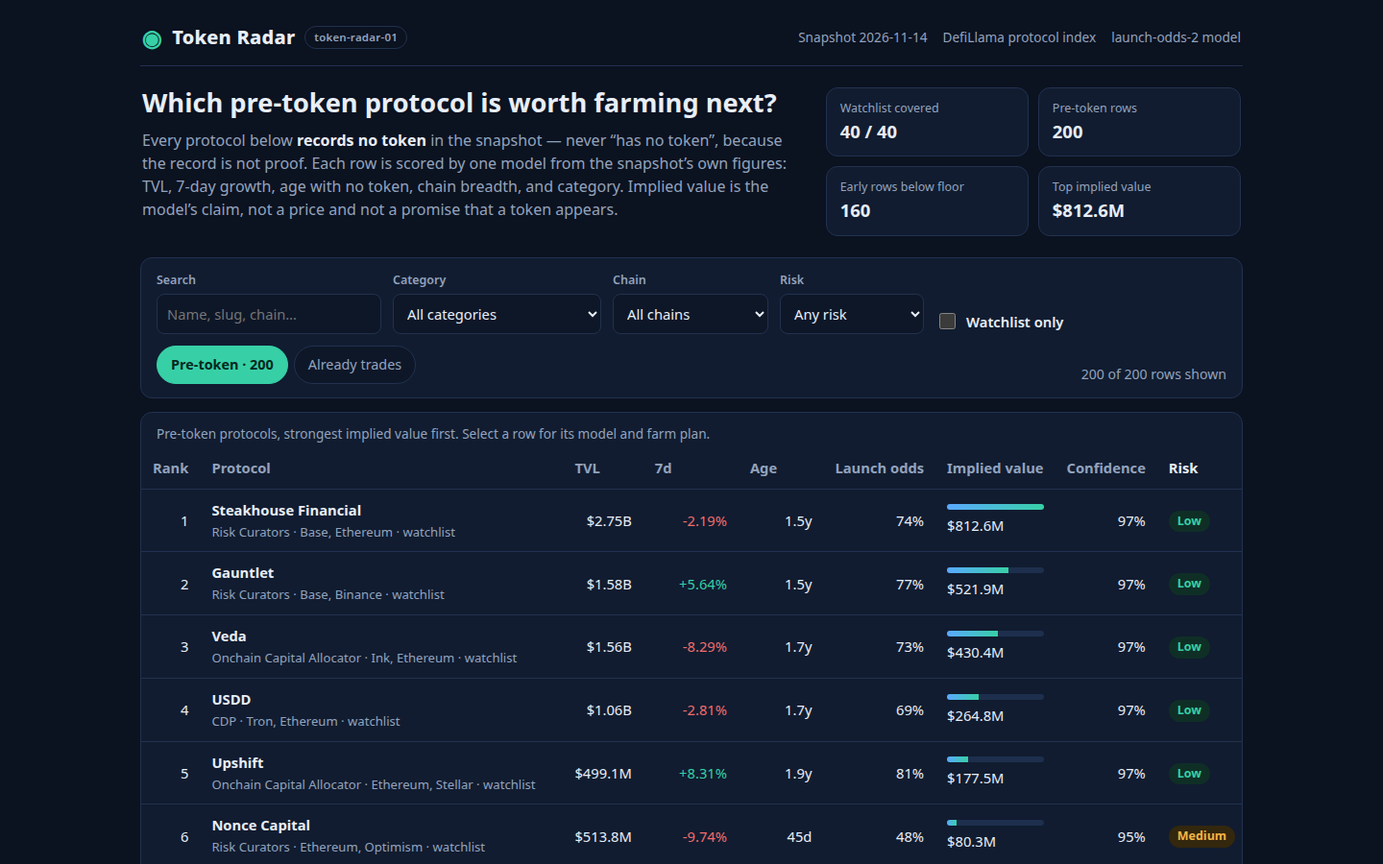
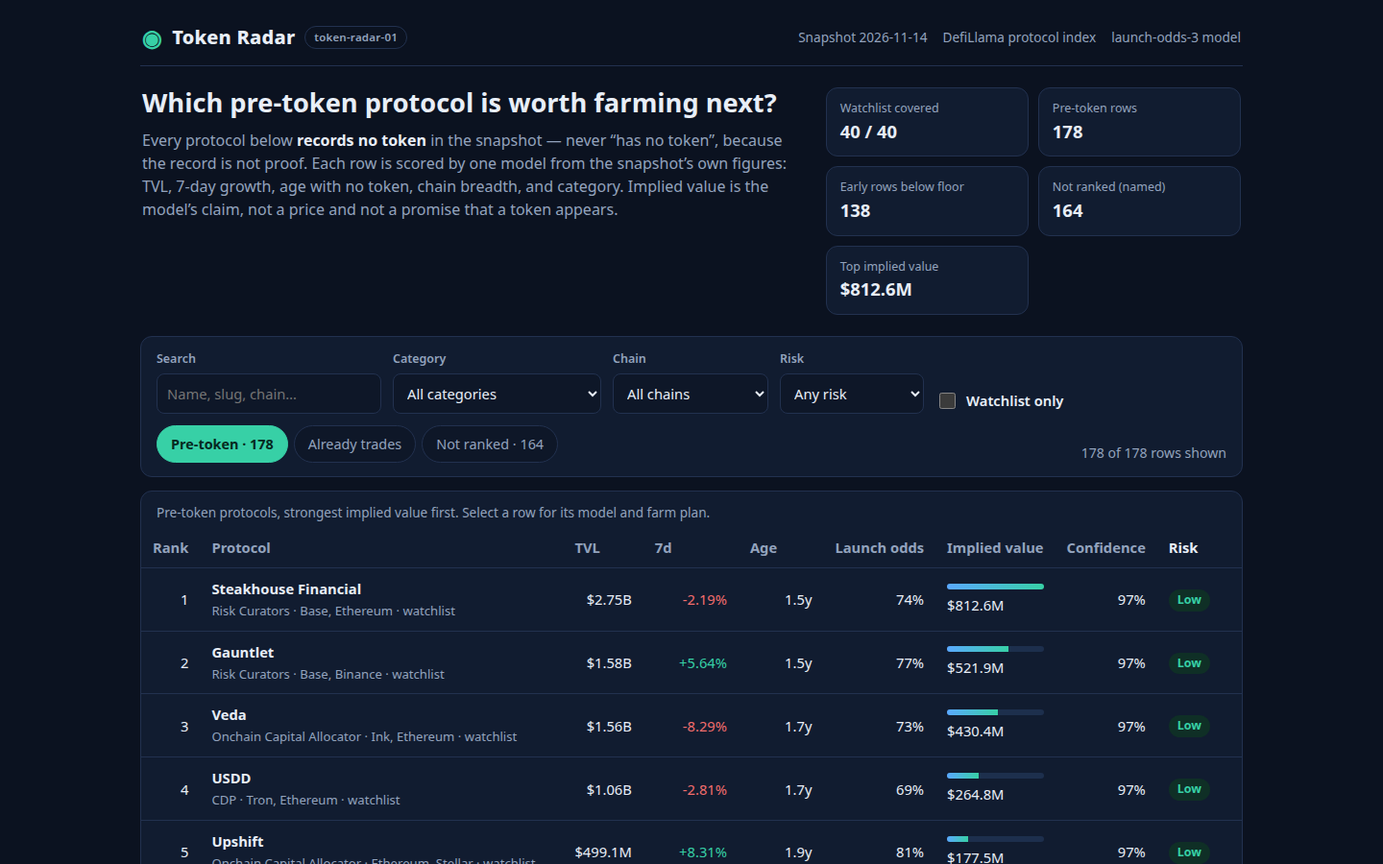
launch-odds-3: rank every eligible pre-token protocol, name the rest
- Board 200 -> 178 rows: v2 ranked 48 wrapped/staked/bridged products
  (liquid-staking receipts, bridges, exchange staked SOL) that the brief
  says are not launches; v3 applies the house watchlist rule to every
  protocol, not just the watchlist.
- Full verified coverage: all 40 watchlist + all 138 other eligible
  pre-token protocols in the snapshot; no top-N cut anymore.
- Not ranked tab: the 164 pre-token protocols left out, each with its
  reason (91 wrapped/staked/bridged, 42 exchanges, 11 versioned pools,
  20 left out by the house watchlist rule). The snapshot carries no
  parentProtocol field, so the entry follows the house list's verdict
  for that last group instead of re-admitting a parent's product.
- Farm plans: category branches for basis trading, chains, CeDeFi,
  BTC-pegged assets, payments, governance incentives, card issuers and
  farms; generic fallback step now 0 rows (was 23).
- Dashboard: third tab for Not ranked (compact columns), new fact card,
  model version shown from data; fourth screenshot of the Not ranked tab.
- Formula unchanged: top 5 implied values identical to v2.

diff --git a/lib/model.ts b/lib/model.ts
@@ -1,4 +1,4 @@
-// Token Radar model v2 ("launch-odds"): snapshot figures in, ranked board out.
+// Token Radar model v3 ("launch-odds"): snapshot figures in, ranked board out.
 //
 // The board ranks pre-token protocols by IMPLIED VALUE, and the model keeps two
 // ideas apart instead of blending them into one TVL multiple:
@@ -6,6 +6,22 @@
 //   potential  = what a launch could be worth IF it happens
 //   launchProb = how likely a launch looks from the record alone
 //   implied    = round(launchProb * potential)
+//
+// v3's change is coverage, not the formula: v2 ranked 200 rows but 48 of them
+// were wrapped, staked or bridged products of a token that already trades
+// (a liquid-staking receipt, a bridge, an exchange's staked SOL), which the
+// bounty brief says are not launches at all, and it missed 20 above-floor
+// protocols the house watchlist leaves out. v3 ranks EVERY protocol the entry
+// can verify as eligible — the whole 40-protocol watchlist plus all 138 other
+// clean pre-token protocols in the snapshot (178 rows) — and names every other
+// pre-token protocol it leaves out, with the reason, in the dashboard's
+// "Not ranked" tab (164 rows: 91 wrapped/staked/bridged, 42 exchanges,
+// 11 versioned pools, 20 left out by the house watchlist rule). The snapshot
+// carries no parentProtocol field, so for a protocol the house rule leaves out
+// the entry follows the house list's verdict instead of re-admitting it on
+// its own guess: a protocol the rule leaves out may be a parent protocol's
+// product (Circle Gateway, USDCx), and ranking one would repeat the WBTC
+// error the brief warns about.
 //
 // Potential starts from TVL, because a token's value tracks the economic base it
 // would govern. The multiple depends on the protocol's CATEGORY CLASS (a coarse,
@@ -103,10 +119,16 @@ export const MODEL: ModelConstants = {
   size_span_log10: 2,
 };
 
-export const MODEL_VERSION = 'launch-odds-2';
+export const MODEL_VERSION = 'launch-odds-3';
 
-/** How many pre-token protocols below the watchlist floor the early radar carries, by TVL. */
-export const EARLY_ROWS = 160;
+/** Every pre-token protocol the board leaves out, with the reason, for the dashboard's "Not ranked" tab. */
+export interface ExcludedRow {
+  slug: string;
+  name: string;
+  category: string | null;
+  tvl_usd: number;
+  reason: string;
+}
 
 /** How many live-token protocols the Live token view carries, by market cap. */
 export const LIVE_ROWS = 24;
@@ -196,6 +218,8 @@ export interface RadarData {
   board_size: number;
   early_size: number;
   live_size: number;
+  excluded: ExcludedRow[];
+  excluded_size: number;
   rows: RadarRow[];
   live: LiveRow[];
 }
@@ -326,9 +350,58 @@ export function isPreToken(p: SnapshotProtocol): boolean {
   return p.mcap_usd === null && p.gecko_id === null && p.symbol === null;
 }
 
-/** Whether a protocol is one the board may rank: pre-token, not an exchange, not a versioned pool. */
-export function isRankable(p: SnapshotProtocol): boolean {
-  return isPreToken(p) && p.category !== 'CEX' && !VERSIONED.test(p.name);
+/** Categories the house watchlist rule names as wrapped, staked or bridged products. */
+const WRAP_CATEGORIES = new Set(['Bridge', 'Canonical Bridge', 'Liquid Staking', 'Liquid Restaking', 'Restaked BTC']);
+
+/** Exchange names the house watchlist rule names as branded products. */
+const EXCHANGE_PREFIXES = ['Binance', 'Coinbase', 'Bybit', 'Kraken', 'Bitget', 'OKX', 'Bitfinex', 'Gemini'];
+
+/** A whole word in a name that marks a wrapped, staked or bridged product. */
+const NAME_WORD = /\b(wrapped|staked|staking)\b/i;
+
+/**
+ * Why a pre-token protocol is not one the board may rank, or null when it is
+ * eligible. This is the house watchlist rule from the kit's input/README.md,
+ * applied to every protocol instead of only the watchlist: a wrapped, staked
+ * or bridged product of a token that already trades is not a launch, a
+ * centralised exchange is not one either, and a versioned pool is a pool of
+ * another protocol. The last clause follows the house list itself: a protocol
+ * at or above the floor that the house rule leaves out stays out, because the
+ * rule also reads parentProtocol, which the snapshot does not carry — the
+ * entry cannot verify such a protocol is not a parent's product, so it does
+ * not re-admit it on its own guess.
+ */
+export function exclusionReason(p: SnapshotProtocol, snapshot: Snapshot): string | null {
+  if (p.category === 'CEX') return 'centralized exchange';
+  if (VERSIONED.test(p.name)) return 'versioned pool of another protocol';
+  if (p.category !== null && WRAP_CATEGORIES.has(p.category)) return 'wrapped, staked or bridged product';
+  if (NAME_WORD.test(p.name)) return 'wrapped, staked or bridged product';
+  if (EXCHANGE_PREFIXES.some((e) => p.name.startsWith(e))) return 'exchange-branded product';
+  if (p.tvl_usd >= snapshot.floor_usd && !snapshot.watchlist.includes(p.slug)) {
+    return 'left out by the house watchlist rule (parent product)';
+  }
+  return null;
+}
+
+/** Whether a protocol is one the board may rank: pre-token and not excluded by the house rule. */
+export function isRankable(p: SnapshotProtocol, snapshot: Snapshot): boolean {
+  return isPreToken(p) && exclusionReason(p, snapshot) === null;
+}
+
+/** Every pre-token protocol the board leaves out, largest TVL first, with its reason. */
+export function excludedRows(snapshot: Snapshot): ExcludedRow[] {
+  return snapshot.protocols
+    .filter((p) => isPreToken(p))
+    .map((p) => ({ p, reason: exclusionReason(p, snapshot) }))
+    .filter((x): x is { p: SnapshotProtocol; reason: string } => x.reason !== null)
+    .sort((a, b) => b.p.tvl_usd - a.p.tvl_usd || (a.p.slug < b.p.slug ? -1 : a.p.slug > b.p.slug ? 1 : 0))
+    .map((x) => ({
+      slug: x.p.slug,
+      name: x.p.name,
+      category: x.p.category,
+      tvl_usd: x.p.tvl_usd,
+      reason: x.reason,
+    }));
 }
 
 function bySlug(protocols: SnapshotProtocol[]): Map<string, SnapshotProtocol> {
@@ -344,9 +417,8 @@ export function buildBoard(snapshot: Snapshot, model: ModelConstants = MODEL): B
     if (p !== undefined) chosen.set(slug, p);
   }
   const early = snapshot.protocols
-    .filter((p) => !chosen.has(p.slug) && isRankable(p) && p.tvl_usd < snapshot.floor_usd)
-    .sort((a, b) => b.tvl_usd - a.tvl_usd || (a.slug < b.slug ? -1 : a.slug > b.slug ? 1 : 0))
-    .slice(0, EARLY_ROWS);
+    .filter((p) => !chosen.has(p.slug) && isRankable(p, snapshot))
+    .sort((a, b) => b.tvl_usd - a.tvl_usd || (a.slug < b.slug ? -1 : a.slug > b.slug ? 1 : 0));
   for (const p of early) chosen.set(p.slug, p);
 
   const scored = [...chosen.values()].map((p) => ({ p, s: scoreProtocol(p, snapshot.as_of, model) }));
@@ -442,6 +514,30 @@ function actionFor(p: SnapshotProtocol, capital: number, chain: string): string 
   }
   if (c.includes('insurance')) {
     return `Buy $${capital} of cover from ${name} on ${chain} and keep the policy active for the full hold period.`;
+  }
+  if (c.includes('basis trad')) {
+    return `Open a $${capital} basis trade on ${name} (${chain}): hold the long spot leg and the short perpetual leg together, and close both legs at once when you unwind.`;
+  }
+  if (c.includes('cedefi')) {
+    return `Deposit $${capital} of USDC into the main ${name} CeDeFi vault on ${chain} and keep the vault position in the same wallet for the full hold.`;
+  }
+  if (c.includes('chain')) {
+    return `Bridge $${capital} of USDC to ${name} (${chain}) and use it in the chain's flagship app every week, keeping the funds on the chain for the full hold.`;
+  }
+  if (c.includes('anchor btc') || c.includes('decentralized btc')) {
+    return `Mint or hold $${capital} of the BTC-pegged asset issued through ${name} on ${chain} and keep it in the same wallet for the full hold.`;
+  }
+  if (c.includes('payment')) {
+    return `Route $${capital} through ${name} on ${chain}: make one real payment a week through it and keep the balance in the same wallet.`;
+  }
+  if (c.includes('governance incentive')) {
+    return `Lock or stake $${capital} through ${name} on ${chain} to earn governance incentives, and vote on at least one proposal during the hold.`;
+  }
+  if (c.includes('card')) {
+    return `Load the ${name} card with $${capital} of USDC on ${chain} and spend from it every week for the full hold.`;
+  }
+  if (c.includes('farm')) {
+    return `Deposit $${capital} of USDC into the main ${name} farm on ${chain} and keep the LP or vault tokens staked for the full hold.`;
   }
   return `Use ${name} on ${chain} with $${capital} of USDC: deposit it in the protocol's main product and keep the position open.`;
 }
@@ -541,6 +637,7 @@ export function radarRow(row: BoardRow): RadarRow {
 export function buildRadar(snapshot: Snapshot, model: ModelConstants = MODEL): { board: BoardRow[]; radar: RadarData } {
   const board = buildBoard(snapshot, model);
   const live = liveRows(snapshot);
+  const excluded = excludedRows(snapshot);
   const early = board.filter((r) => !snapshot.watchlist.includes(r.slug)).length;
   const radar: RadarData = {
     as_of: snapshot.as_of,
@@ -553,6 +650,8 @@ export function buildRadar(snapshot: Snapshot, model: ModelConstants = MODEL): {
     board_size: board.length,
     early_size: early,
     live_size: live.length,
+    excluded,
+    excluded_size: excluded.length,
     rows: board.map(radarRow),
     live,
   };

diff --git a/dashboard/app.js b/dashboard/app.js
@@ -56,6 +56,7 @@
     if (params.get('risk')) state.risk = params.get('risk');
     if (params.get('wl') === '1') state.wl = true;
     if (params.get('tab') === 'live') state.tab = 'live';
+    if (params.get('tab') === 'excluded') state.tab = 'excluded';
     if (params.get('p')) state.selected = params.get('p');
     if (params.get('sort')) state.sort = params.get('sort');
   }
@@ -67,6 +68,7 @@
     if (state.risk !== 'all') p.set('risk', state.risk);
     if (state.wl) p.set('wl', '1');
     if (state.tab === 'live') p.set('tab', 'live');
+    if (state.tab === 'excluded') p.set('tab', 'excluded');
     if (state.selected) p.set('p', state.selected);
     if (state.sort !== 'rank') p.set('sort', state.sort);
     var next = p.toString();
@@ -138,6 +140,30 @@
     });
   }
 
+  function excludedRows() {
+    rowsEl.textContent = '';
+    var q = state.q.trim().toLowerCase();
+    var list = (DATA.excluded || []).filter(function (r) {
+      if (!q) return true;
+      return [r.name, r.slug, r.category, r.reason].join(' ').toLowerCase().indexOf(q) >= 0;
+    });
+    list.forEach(function (r) {
+      rowsEl.appendChild(el('tr', { tabindex: '0' },
+        el('td', { class: 'num', text: '—' }),
+        el('td', null, el('div', { class: 'name' }, el('b', { text: r.name }),
+          el('span', { class: 'sub', text: (r.category || 'Other') + ' · ' + r.reason }))),
+        el('td', { class: 'num', text: fmtUsd(r.tvl_usd) }),
+        el('td', { class: 'num', text: '—' }),
+        el('td', { class: 'num', text: '—' }),
+        el('td', { class: 'num', text: '—' }),
+        el('td', null, el('span', { class: 'num', text: '—' })),
+        el('td', { class: 'num', text: '—' }),
+        el('td', null, el('span', { class: 'pill pre', text: 'not ranked' }))
+      ));
+    });
+    return list.length;
+  }
+
   function liveRows() {
     rowsEl.textContent = '';
     DATA.live.forEach(function (r) {
@@ -175,7 +201,7 @@
       el('button', { class: 'close', type: 'button', 'aria-label': 'Close details', text: 'Close', onclick: function () { dialog.close(); } })
     ));
     dialog.appendChild(el('div', { class: 'detail-sec' },
-      el('h3', { text: 'Model breakdown — launch-odds-2' }),
+      el('h3', { text: 'Model breakdown — ' + DATA.model_version }),
       el('div', { class: 'grid' },
         el('div', null, el('span', { text: 'TVL' }), el('b', { text: fmtUsd(row.tvl_usd) })),
         el('div', null, el('span', { text: '7-day growth' }), el('b', { text: fmtPct(row.change_7d) })),
@@ -214,6 +240,7 @@
       ['Watchlist covered', DATA.watchlist_size + ' / ' + DATA.watchlist_size],
       ['Pre-token rows', String(DATA.board_size)],
       ['Early rows below floor', String(DATA.early_size)],
+      ['Not ranked (named)', String(DATA.excluded_size || 0)],
       ['Top implied value', top ? fmtUsd(top.implied_value_usd) : 'n/a']
     ].forEach(function (f) {
       facts.appendChild(el('div', { class: 'fact' }, el('span', { text: f[0] }), el('b', { text: f[1] })));
@@ -225,14 +252,25 @@
     document.getElementById('prov-text').textContent =
       'Data: DefiLlama protocol index, fetched once for this snapshot (' + DATA.as_of + '), floor $' +
       Math.round(DATA.floor_usd / 1e6) + 'M. Source record: ' + DATA.source + '. ' +
-      DATA.rows.length + ' pre-token rows ranked; ' + DATA.live.length + ' live-token protocols set aside with market caps. No live data is fetched: the page is a static snapshot of that one fetch.';
+      DATA.rows.length + ' pre-token rows ranked; ' + (DATA.excluded_size || 0) + ' pre-token protocols named as not ranked, with the reason each; ' +
+      DATA.live.length + ' live-token protocols set aside with market caps. No live data is fetched: the page is a static snapshot of that one fetch.';
   }
 
   function render() {
+    document.getElementById('board-wrap').classList.toggle('excluded-view', state.tab === 'excluded');
+    document.getElementById('tab-pre').textContent = 'Pre-token · ' + DATA.board_size;
+    document.getElementById('tab-live').textContent = 'Already trades';
+    document.getElementById('tab-excluded').textContent = 'Not ranked · ' + (DATA.excluded_size || 0);
     document.getElementById('tab-pre').setAttribute('aria-selected', state.tab === 'pre-token' ? 'true' : 'false');
     document.getElementById('tab-live').setAttribute('aria-selected', state.tab === 'live' ? 'true' : 'false');
+    document.getElementById('tab-excluded').setAttribute('aria-selected', state.tab === 'excluded' ? 'true' : 'false');
     document.querySelector('#board thead button[data-sort="implied"]').textContent = state.tab === 'live' ? 'Market cap' : 'Implied value';
-    if (state.tab === 'live') {
+    if (state.tab === 'excluded') {
+      var shown = excludedRows();
+      emptyEl.hidden = shown > 0;
+      countEl.textContent = shown + ' of ' + (DATA.excluded_size || 0) + ' not-ranked protocols';
+      document.querySelector('#board caption').textContent = 'Pre-token protocols the board does not rank, with the reason each. A wrapped, staked or bridged product of a token that already trades is not a launch.';
+    } else if (state.tab === 'live') {
       liveRows();
       emptyEl.hidden = true;
       countEl.textContent = DATA.live.length + ' live-token protocols';
@@ -265,6 +303,7 @@
     document.getElementById('watchlist-only').addEventListener('change', function (e) { state.wl = e.target.checked; render(); });
     document.getElementById('tab-pre').addEventListener('click', function () { state.tab = 'pre-token'; render(); });
     document.getElementById('tab-live').addEventListener('click', function () { state.tab = 'live'; render(); });
+    document.getElementById('tab-excluded').addEventListener('click', function () { state.tab = 'excluded'; render(); });
     document.getElementById('clear').addEventListener('click', function () {
       state.q = ''; state.category = 'all'; state.chain = 'all'; state.risk = 'all'; state.wl = false;
       document.getElementById('q').value = ''; document.getElementById('category').value = 'all';

diff --git a/dashboard/index.html b/dashboard/index.html
@@ -4,7 +4,7 @@
 <meta charset="utf-8">
 <meta name="viewport" content="width=device-width, initial-scale=1">
 <title>Token Radar — pre-token protocols ranked by implied launch value</title>
-<meta name="description" content="A token launch radar: 200 pre-token protocols ranked by implied value, each with a farm plan. Snapshot: DefiLlama, 2026-11-14. Fully offline.">
+<meta name="description" content="A token launch radar: 178 pre-token protocols ranked by implied value, each with a farm plan. Snapshot: DefiLlama, 2026-11-14. Fully offline.">
 <link rel="stylesheet" href="app.css">
 </head>
 <body>
@@ -12,7 +12,7 @@
 <div class="shell">
   <header class="top">
     <div class="brand"><span class="mark" aria-hidden="true">◉</span><span class="brand-name">Token Radar</span><span class="tag">token-radar-01</span></div>
-    <div class="top-meta"><span id="snap-date">Snapshot —</span><span>DefiLlama protocol index</span><span id="model-tag">launch-odds-2</span></div>
+    <div class="top-meta"><span id="snap-date">Snapshot —</span><span>DefiLlama protocol index</span><span id="model-tag">launch-odds-3</span></div>
   </header>
 
   <section class="lede">
@@ -30,8 +30,9 @@
     <div class="field"><label for="risk">Risk</label><select id="risk"><option value="all">Any risk</option><option value="Low">Low</option><option value="Medium">Medium</option><option value="High">High</option></select></div>
     <div class="field check"><label><input type="checkbox" id="watchlist-only"> Watchlist only</label></div>
     <div class="tabs" role="tablist" aria-label="Token status">
-      <button type="button" id="tab-pre" role="tab" aria-selected="true">Pre-token · 200</button>
+      <button type="button" id="tab-pre" role="tab" aria-selected="true">Pre-token · 178</button>
       <button type="button" id="tab-live" role="tab" aria-selected="false">Already trades</button>
+      <button type="button" id="tab-excluded" role="tab" aria-selected="false">Not ranked · 164</button>
     </div>
     <span class="count" id="count"></span>
   </section>
@@ -71,7 +72,7 @@
       <li><b>Implied value.</b> Launch odds × potential, rounded to whole dollars. Rank 1 is the highest.</li>
       <li><b>Confidence &amp; risk.</b> Confidence rises when growth and listing date are reported and falls on thin records or extreme growth. Risk rises for very young, single-chain, or sharply shrinking protocols.</li>
     </ol>
-    <p class="sub">The watchlist is the floor, never the ceiling: all 40 protocols at or above the $50M floor with no token on record are ranked, plus the 160 largest pre-token protocols below the floor. Protocols whose token already trades are set aside in the “Already trades” tab with their market cap — the market’s own value, never a model’s.</p>
+    <p class="sub">The watchlist is the floor, never the ceiling: all 40 protocols at or above the $50M floor with no token on record are ranked, plus the 138 other pre-token protocols the house rule leaves eligible — every one of them, not a top-N cut. That is the whole eligible set in this snapshot: 178 rows. The 164 pre-token protocols the rule leaves out are named with their reason in the “Not ranked” tab (wrapped, staked or bridged products, exchanges, versioned pools, and protocols the house watchlist rule leaves out). Protocols whose token already trades are set aside in the “Already trades” tab with their market cap — the market’s own value, never a model’s.</p>
   </section>
 
   <section class="panel prov" id="provenance">
@@ -80,7 +81,7 @@
     <p class="sub">This page is fully offline: it reads only the data file written beside it and makes no network request. Farm plans are generic steps derived from each protocol’s category, chains, TVL, and age; they state costs and times, and they never claim a points program, a launch date, or funding the snapshot does not carry. Farming costs gas and can lose money — never farm with funds you cannot afford to lose, and never pay anyone to claim an airdrop.</p>
   </section>
 
-  <footer class="foot"><span>Token Radar · model launch-odds-2 · built for make.fun token-radar-01</span><span>Implied value is an estimate, not financial advice.</span></footer>
+  <footer class="foot"><span>Token Radar · model launch-odds-3 · built for make.fun token-radar-01</span><span>Implied value is an estimate, not financial advice.</span></footer>
 </div>
 
 <dialog class="detail" id="detail" aria-labelledby="detail-title"></dialog>

diff --git a/dashboard/app.css b/dashboard/app.css
@@ -56,6 +56,13 @@ td.num{text-align:right}
 .pill{display:inline-block;border-radius:999px;padding:2px 9px;font-size:.78rem;font-weight:700}
 .pill.low{background:#0f2f26;color:var(--good)} .pill.med{background:#33270e;color:var(--warn)} .pill.high{background:#3a1717;color:var(--bad)}
 .pill.pre{background:#12283d;color:var(--accent2)}
+/* Not-ranked view: the model columns are all "—" there, so hide them and keep
+   Rank / Protocol / TVL / Risk on screen. */
+.excluded-view th:nth-child(4),.excluded-view td:nth-child(4),
+.excluded-view th:nth-child(5),.excluded-view td:nth-child(5),
+.excluded-view th:nth-child(6),.excluded-view td:nth-child(6),
+.excluded-view th:nth-child(7),.excluded-view td:nth-child(7),
+.excluded-view th:nth-child(8),.excluded-view td:nth-child(8){display:none}
 .empty{padding:28px;text-align:center}
 .empty h2{margin:0 0 6px}
 .button{border:0;border-radius:8px;padding:10px 16px;font:inherit;cursor:pointer}

diff --git a/main.ts b/main.ts
@@ -3,7 +3,7 @@
 // Reads the sealed snapshot, scores every pre-token protocol with the
 // launch-odds model in lib/model.ts, and writes the graded outputs:
 //
-//   /output/board.json    the ranked board (200 rows)
+//   /output/board.json    the ranked board (178 rows: every eligible pre-token protocol)
 //   /output/data.js       the same rows for the dashboard, as window.RADAR
 //   /output/dashboard/   a copy of this repo's dashboard/
 //   /output/screenshots/ a copy of this repo's screenshots/

diff --git a/README.md b/README.md
@@ -4,17 +4,18 @@
 [![rank](https://make.fun/badge/token-radar-01/taufik52/token-radar-20261122/rank.svg)](https://make.fun/bounty/token-radar-01/leaderboard?utm_source=github&utm_medium=readme&utm_campaign=token-radar-01)
 [![reward](https://make.fun/badge/token-radar-01/taufik52/token-radar-20261122/reward.svg)](https://make.fun/bounty/token-radar-01?utm_source=github&utm_medium=readme&utm_campaign=token-radar-01)
 
-Entry for the [make.fun](https://make.fun/) bounty **token-radar-01** — build the best token launch radar. The program reads a sealed DefiLlama snapshot (758 protocols, as of 2026-11-14) and writes a dashboard that ranks the 200 most promising pre-token protocols by implied launch value, each with a concrete farm plan.
+Entry for the [make.fun](https://make.fun/) bounty **token-radar-01** — build the best token launch radar. The program reads a sealed DefiLlama snapshot (758 protocols, as of 2026-11-14) and writes a dashboard that ranks the 178 pre-token protocols the house rule leaves eligible, by implied launch value, each with a concrete farm plan — and names the 164 pre-token protocols it leaves out, with the reason each.
 
 ## What it does
 
-- **Covers the whole watchlist** — all 40 protocols at or above the $50M TVL floor that record no token — plus the 160 largest pre-token protocols below the floor, found early by the radar.
-- **Ranks by implied value, not TVL alone** — the `launch-odds-2` model separates *potential* (what a launch could be worth) from *launch probability* (how launch-shaped the record looks), then multiplies them.
+- **Covers the whole watchlist** — all 40 protocols at or above the $50M TVL floor that record no token — plus the 138 other pre-token protocols in the snapshot the house rule leaves eligible. That is the whole eligible set: 178 rows, not a top-N cut.
+- **Ranks by implied value, not TVL alone** — the `launch-odds-3` model separates *potential* (what a launch could be worth) from *launch probability* (how launch-shaped the record looks), then multiplies them.
+- **Names what it leaves out** — the 164 pre-token protocols the board does not rank appear in the dashboard's “Not ranked” tab with the reason each: wrapped, staked or bridged products of a token that already trades (91), centralised exchanges (42), versioned pools of another protocol (11), and protocols the house watchlist rule leaves out (20). The snapshot carries no `parentProtocol` field, so for that last group the entry follows the house list's verdict instead of re-admitting a protocol on its own guess — ranking one would repeat the WBTC error (a wrapped product is not a launch).
 - **Shows a farm plan for every row** — 6 steps each, with capital, gas cost, and time, derived from the protocol's category, chains, TVL, and age.
 - **Keeps live-token protocols apart** — protocols whose token already trades appear in a separate tab with their market cap, never mixed into the pre-token ranking.
 - **Fully offline dashboard** — sortable board, search, category / chain / risk filters, watchlist toggle, and a detail view for every protocol with the full model breakdown. No network requests.
 
-## The model (launch-odds-2)
+## The model (launch-odds-3)
 
 ```
 implied = round( launchProb × TVL × sector
@@ -39,12 +40,12 @@ Requires Node.js 22.18+ (the repo runs on Node 24 in this workspace). The snapsh
 mkdir -p out && MAKEFUN_OUTPUT_DIR=out node main.ts --input <path-to>/snapshot.json
 ```
 
-That writes `out/board.json` (200 rows), `out/data.js`, `out/dashboard/`, `out/screenshots/`, and `out/dossier.json`. The program is deterministic: two runs write byte-identical outputs. Standard library only — nothing to install.
+That writes `out/board.json` (178 rows), `out/data.js`, `out/dashboard/`, `out/screenshots/`, and `out/dossier.json`. The program is deterministic: two runs write byte-identical outputs. Standard library only — nothing to install.
 
 ## Layout
 
 - `main.ts` — entry point: reads the snapshot, writes the outputs, builds the dossier
-- `lib/model.ts` — the launch-odds-2 model, board builder, farm plans
+- `lib/model.ts` — the launch-odds-3 model, board builder, farm plans, and the not-ranked list
 - `vendor/makefun-board.ts` — make.fun's dossier library (from the kit, unchanged)
 - `dashboard/` — the offline page (`index.html`, `app.css`, `app.js`)
 - `screenshots/` — board, detail, and filtered views of the dashboard
